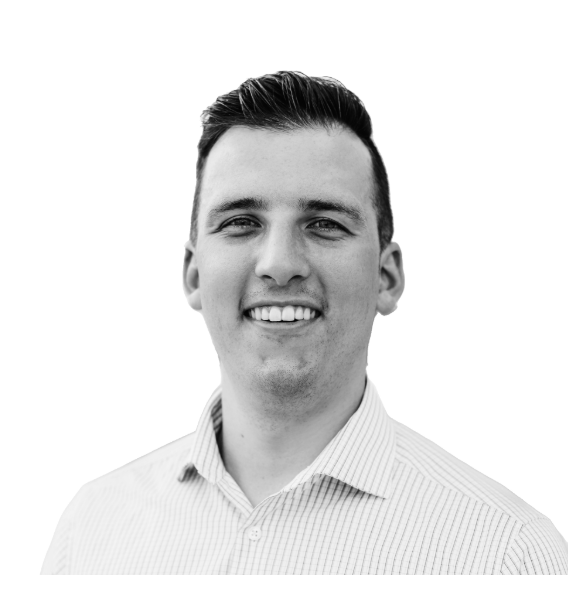
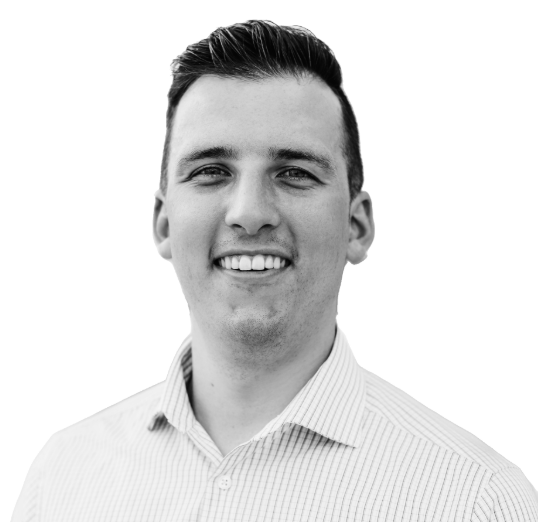
made responsive

Changed region(s): [[0.2379, 0.0307, 1.0, 1.0], [0.2379, 0.7356, 0.2974, 0.7663]]

diff --git a/src/components/Shared/Home.js b/src/components/Shared/Home.js
@@ -11,24 +11,22 @@ const Home = () => (
           I am software engineer that believes hard-work, grit, and consistency bring results. 
       </div>
       <div class="homecontent">
-      <a href='/'>
+        <div class='jacobimage'>
             <img class='jacoboutline' src={JacobOutline}/>
-          </a>
-          <div class='endorsements'>
-        <div class='quote1'>
-          "He is continually persistent in solving and debugging coding problems and all tasks that are put before him." -Henry Doan (DevPoint Labs Instructor & Mentor)<br/><br/>
         </div>
-        <div class='quote2'>
-          "...wants to know how he can be better and when given feedback he's always shown progression..." -Russell Lonczyna (Manager)<br/><br/>
+        <div class='endorsements'>
+          <div class='quote1'>
+            "He is continually persistent in solving and debugging coding problems and all tasks that are put before him." -Henry Doan (DevPoint Labs Instructor & Mentor)<br/><br/>
+          </div>
+          <div class='quote2'>
+            "...wants to know how he can be better and when given feedback he's always shown progression..." -Russell Lonczyna (Manager)<br/><br/>
+          </div>
+          <div class='quote3'>
+            "He is adaptive and flexible, but has a core focus and drive that makes Jake one of our most consistent top performers." -Kelsey Waddell (Sr Manager) <br/>
+          </div>
         </div>
-        <div class='quote3'>
-          "He is adaptive and flexible, but has a core focus and drive that makes Jake one of our most consistent top performers." -Kelsey Waddell (Sr Manager) <br/>
-        </div>
-          
-      </div>
         <br/>
         <br/>
-  
       </div>
     </div>
   </>

diff --git a/src/index.css b/src/index.css
@@ -8,6 +8,11 @@ body {
   -webkit-font-smoothing: antialiased;
   -moz-osx-font-smoothing: grayscale;
   background-color: black;
+  position: absolute;
+  overflow: hidden;
+  top: 0px;
+  bottom: 0px;
+  width: 100%;
 }
 
 code {
@@ -20,11 +25,16 @@ code {
   width: 8%;
   padding-top: 20px;
   padding-left: 20px;
-  pointer-events: none;
+  position:relative;
+  max-width: 100%;
+  max-height: 100%;
+
+
 }
 
 .nav{
   background-color: black !important;
+  display: flex;
 }
 
 
@@ -51,7 +61,9 @@ code {
 }
 .endorsements {
   color: white !important;
-  overflow: auto;
+  display: flex;
+  flex-direction: column;
+
 }
 
 .quote1 {
@@ -60,6 +72,7 @@ code {
   align-items: center !important;
   font-size: 18px;
   font-family: 'Work Sans';
+  padding: 50px;
 }
 
 .quote2 {
@@ -67,6 +80,7 @@ code {
   justify-content: center !important;
   align-items: center !important;
   font-size: 18px;
+  padding: 50px;
   font-family: 'Work Sans';
 }
 
@@ -75,17 +89,19 @@ code {
   justify-content: center !important;
   align-items: center !important;
   font-size: 18px;
+  padding: 50px;
   font-family: 'Work Sans';
 }
 
 .home-text{
   color: white !important;
- 
+  
 }
 
 .jacoboutline {
-  max-width: 100%;
+  
   position: relative;
+  bottom: 0;
 }
 
 .homecontent {
